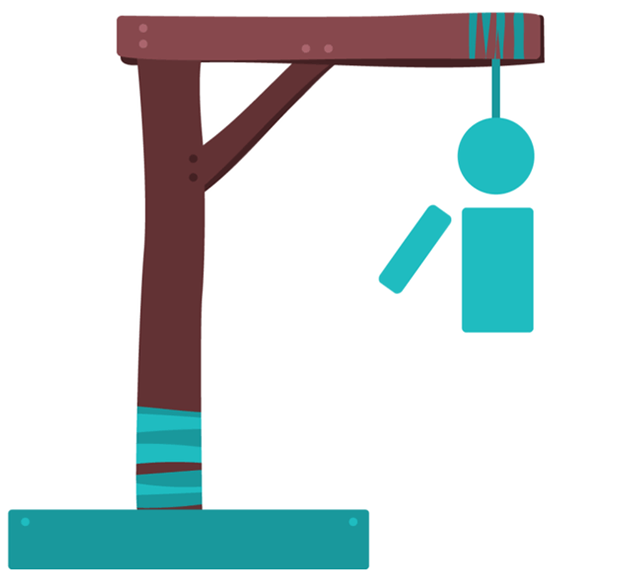
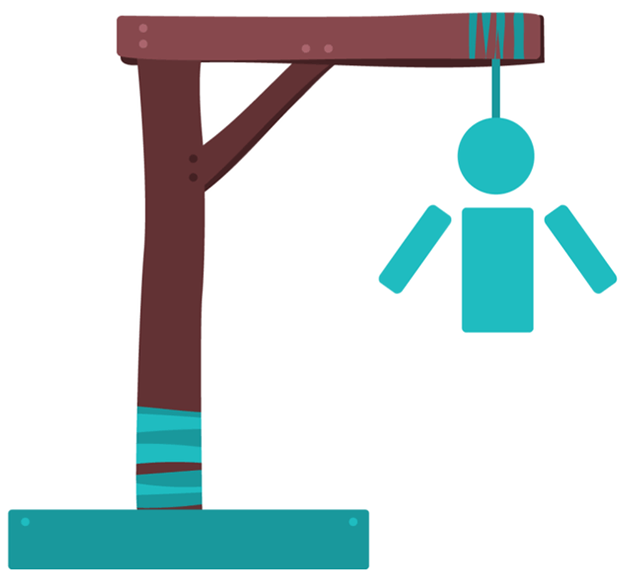
finished game

Changed region(s): [[0.8444, 0.3548, 0.9952, 0.5322]]

diff --git a/js/script.js b/js/script.js
@@ -6,6 +6,10 @@ let tip;
 let selectedPhrase;
 let displayPhrase = document.querySelector('.phrase');
 let correctPlayCount = 0;
+let wrongMove = 0;
+let buttons = document.querySelectorAll('.button');
+let hangman = document.querySelector('#hangman');
+let divModal = document.querySelector('#end-game');
 
 
 document.querySelector("#difficulty").addEventListener('click', () => {
@@ -15,33 +19,63 @@ document.querySelector("#difficulty").addEventListener('click', () => {
    selectedPhrase = sortPhase();
    displayLetters(selectedPhrase);
    divTip.innerHTML = `DICA: ${tip}`;
-   checkIfLetter(selectedPhrase);
    console.log(selectedPhrase);
 });
 
-function checkIfLetter(str){
 
-   let divLetter = document.querySelectorAll('.letter');
-   let letters = document.querySelectorAll('.button');
+buttons.forEach((element) => {
+   element.addEventListener('click', (e) => {
+      e.preventDefault();
+      let buttonClick = element.innerHTML;
+      element.style.cursor = 'not-allowed';
+      element.disabled = true;
+      element.style.background = '#8a0f07';
+   
+      if(selectedPhrase.includes(buttonClick)){
+   
+         for(let i = 0; i < selectedPhrase.length; i++){
+            if(selectedPhrase[i] == buttonClick){
+               document.querySelectorAll('.letter')[i].innerHTML = buttonClick;
+               correctPlayCount+=1;
+               console.log(correctPlayCount);
+               if(correctPlayCount == selectedPhrase.length){
+                  createDisplayWinner();
+               }
+            } 
+         }
+   
+      }else{
+         wrongMove+=1;
+         if(wrongMove <= 6){
+            hangman.setAttribute('src', `images/${wrongMove}.png`);
+         }
+         if(wrongMove == 6){
+            createDisplayLoser();
+         }
+      }
+   });
+});   
 
-   letters.forEach(element => {
-      element.addEventListener('click', () => {
-         let lettersSelected = element.innerHTML;
 
-         str.split('').forEach((element, index) => {
-            if(lettersSelected == element){
-               divLetter[index].innerHTML = element;
-               
-               
-            
-            }
-         });
-
-      });
-   })
+function createDisplayWinner(){
+   setTimeout(() => {
+      divModal.style.background = 'rgba(9, 181, 69, 0.5)';
+      divModal.querySelector('h1').innerHTML = 'Parabéns! Você venceu!';
+      divModal.querySelector('h3').innerHTML = `A palavra é ${selectedPhrase}`;
+      divModal.style.display = 'flex';
+   }, 300);
+   divModal.querySelector('input[type="button"]').addEventListener('click', newGame);
 }
 
-
+function createDisplayLoser(){
+   setTimeout(() => {
+      divModal.style.background = 'rgba(153, 11, 25, 0.5)';
+      divModal.querySelector('h1').innerHTML = 'Infelizmente você perdeu!';
+      divModal.querySelector('h3').innerHTML = `A palavra era ${selectedPhrase}`;
+      divModal.style.display = 'flex';
+   }, 300);
+   divModal.querySelector('input[type="button"]').addEventListener('click', newGame);
+}
 
 function displayLetters(str){
    let createDiv = document.createElement('div');
@@ -69,6 +103,9 @@ function sortPhase(){
       case 2:
          tip = "FILME"
          break;
+      case 3:
+         tip = "SERIE"
+         break;
       default:
          tip = "ERROR";
    }
@@ -88,4 +125,19 @@ function exitDisplayGame(){
 
 function randomNumber(arr){
    return Math.floor(Math.random() * arr.length)
+}
+
+function newGame(){
+   correctPlayCount = 0;
+   wrongMove = 0;
+   displayPhrase.innerHTML = '';
+   buttons.forEach((element) => {
+      element.style.cursor = 'pointer';
+      element.disabled = false;
+      element.style.background = '';
+   });
+   hangman.setAttribute('src', `images/0.png`);
+   divModal.style.display = 'none';
+   exitDisplayGame();
+   
 }

diff --git a/css/style.css b/css/style.css
@@ -32,7 +32,7 @@ section#select-level{
    font-size: 16px;
 }
 
-#select-level input{
+input{
    padding: 10px 20px;
    background-color: #19989c;
    border: none;
@@ -42,7 +42,7 @@ section#select-level{
    font-size: 18px;
 }
 
-#select-level input[type="submit"]:hover{
+input[type="submit"]:hover, input[type="button"]:hover{
    background-color: #17c1c7;
 }
 
@@ -58,7 +58,7 @@ section#game{
 
 .hangman{
    width: 50%;
-   height: 375px;
+   height: auto;
 }
 
 .hangman img{
@@ -67,6 +67,9 @@ section#game{
 
 .phrase{
    width: 50%;
+   display: flex;
+   justify-content: center;
+   align-items: center;
 }
 
 .phrase .letter{
@@ -110,4 +113,28 @@ section#game{
    right: 60px;
    color: #19989c;
    font-size: 25px;
+}
+
+
+#end-game{
+   width: 100%;
+   height: 100%;
+   display: none;
+   justify-content: center;
+   align-items: center;
+   flex-direction: column;
+   position: absolute;
+}
+
+#end-game h3{
+   margin: 20px 0;
+}
+
+@media (max-width: 600px){
+   .hangman{
+      width: 100%;
+   }
+   .phrase{
+      width: 100%;
+   }
 }

diff --git a/index.html b/index.html
@@ -22,7 +22,7 @@
    <section id="game">
 
       <div class="hangman">
-         <img src="images/7.png" alt="">
+         <img src="images/0.png" alt="" id="hangman">
       </div>
 
       <div class="phrase">
@@ -59,6 +59,12 @@
          <button class="button">Ç</button>
       </div>
       <div id="tip">DICA: TIME</div>
+      
+      <div id="end-game">
+         <h1></h1>
+         <h3></h3>
+         <input type="button" id="new-game" value="Jogar Novamente">
+      </div>
    </section>
 
    <script src="js/phrases.js"></script>

diff --git a/js/phrases.js b/js/phrases.js
@@ -16,4 +16,10 @@ const movie = {
    hard: ['JANGO LIVRE', 'A FERA']
 }
 
-let phrase = [team, fruit, movie];
+const serie = {
+   easy: ['LA CASA DE PAPEL', 'LUCIFER', 'SEX EDUCATION', 'THE WITCHER', 'BREAKING BAD'],
+   medium: ['THE BOYS', 'PRISION BREAK', 'VIS A VIS'],
+   hard: ['HOMELAND', 'REACHER']
+}
+
+let phrase = [team, fruit, movie, serie];
